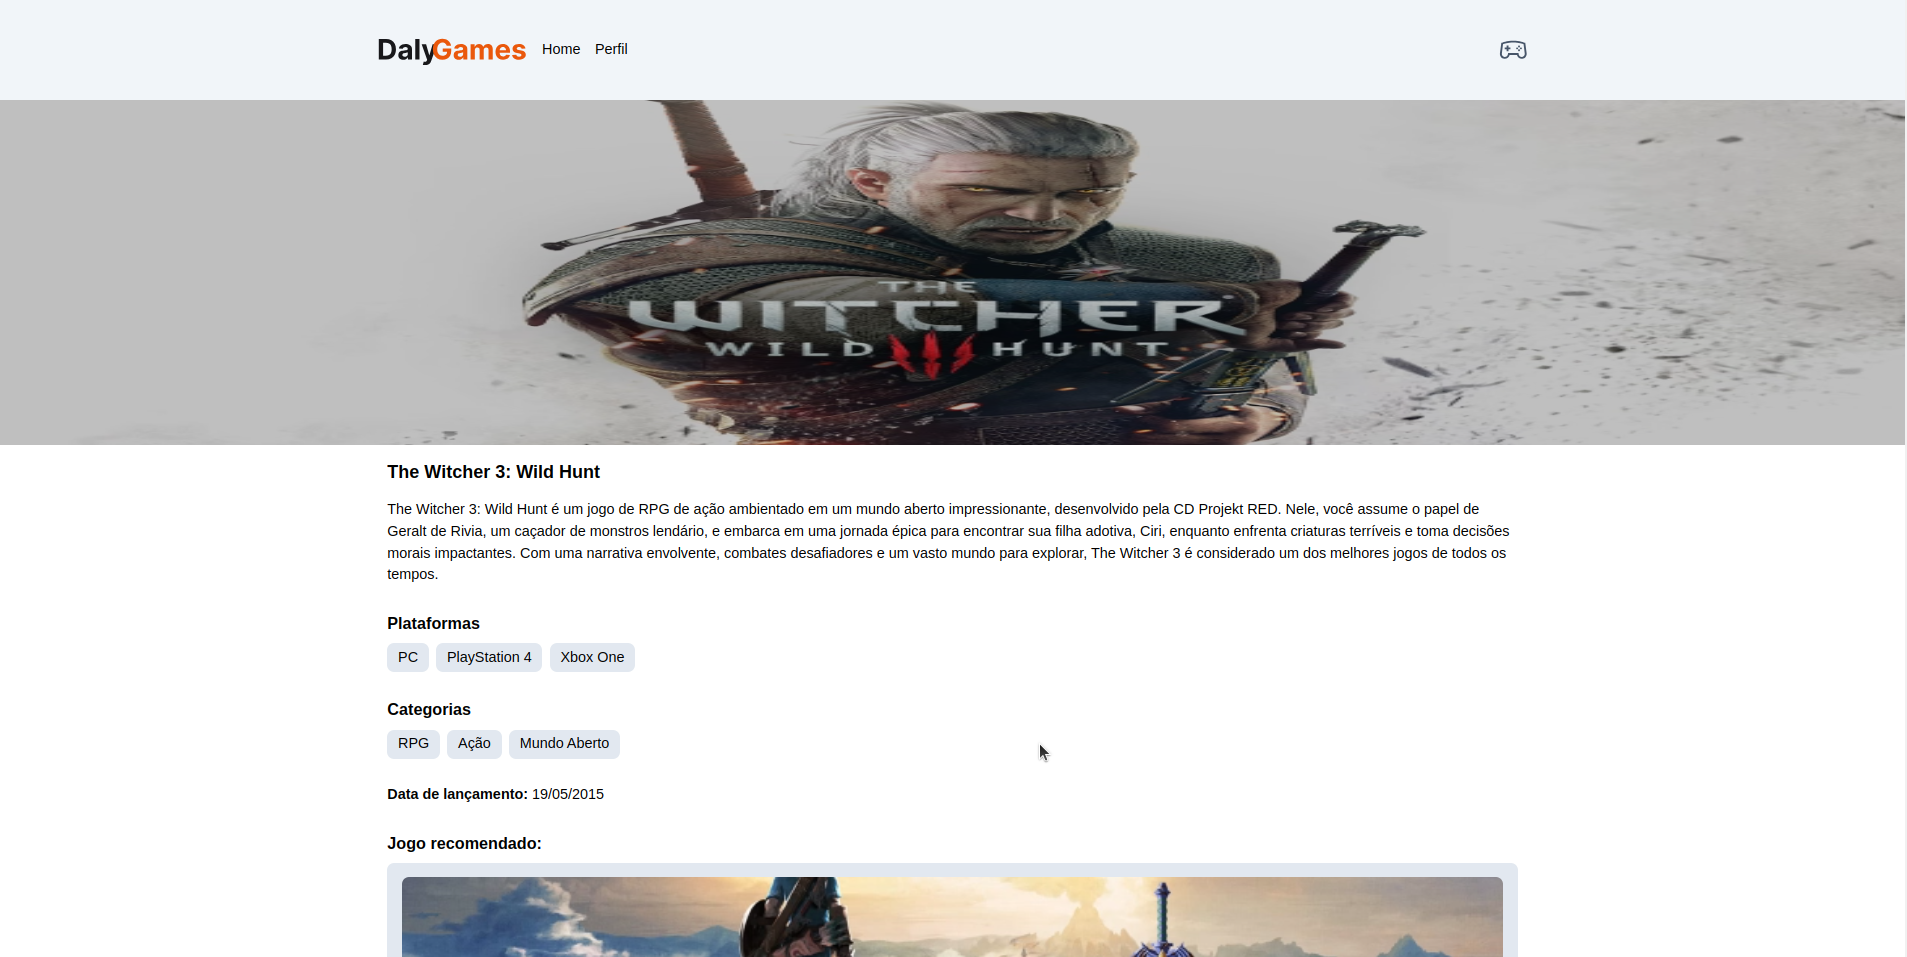
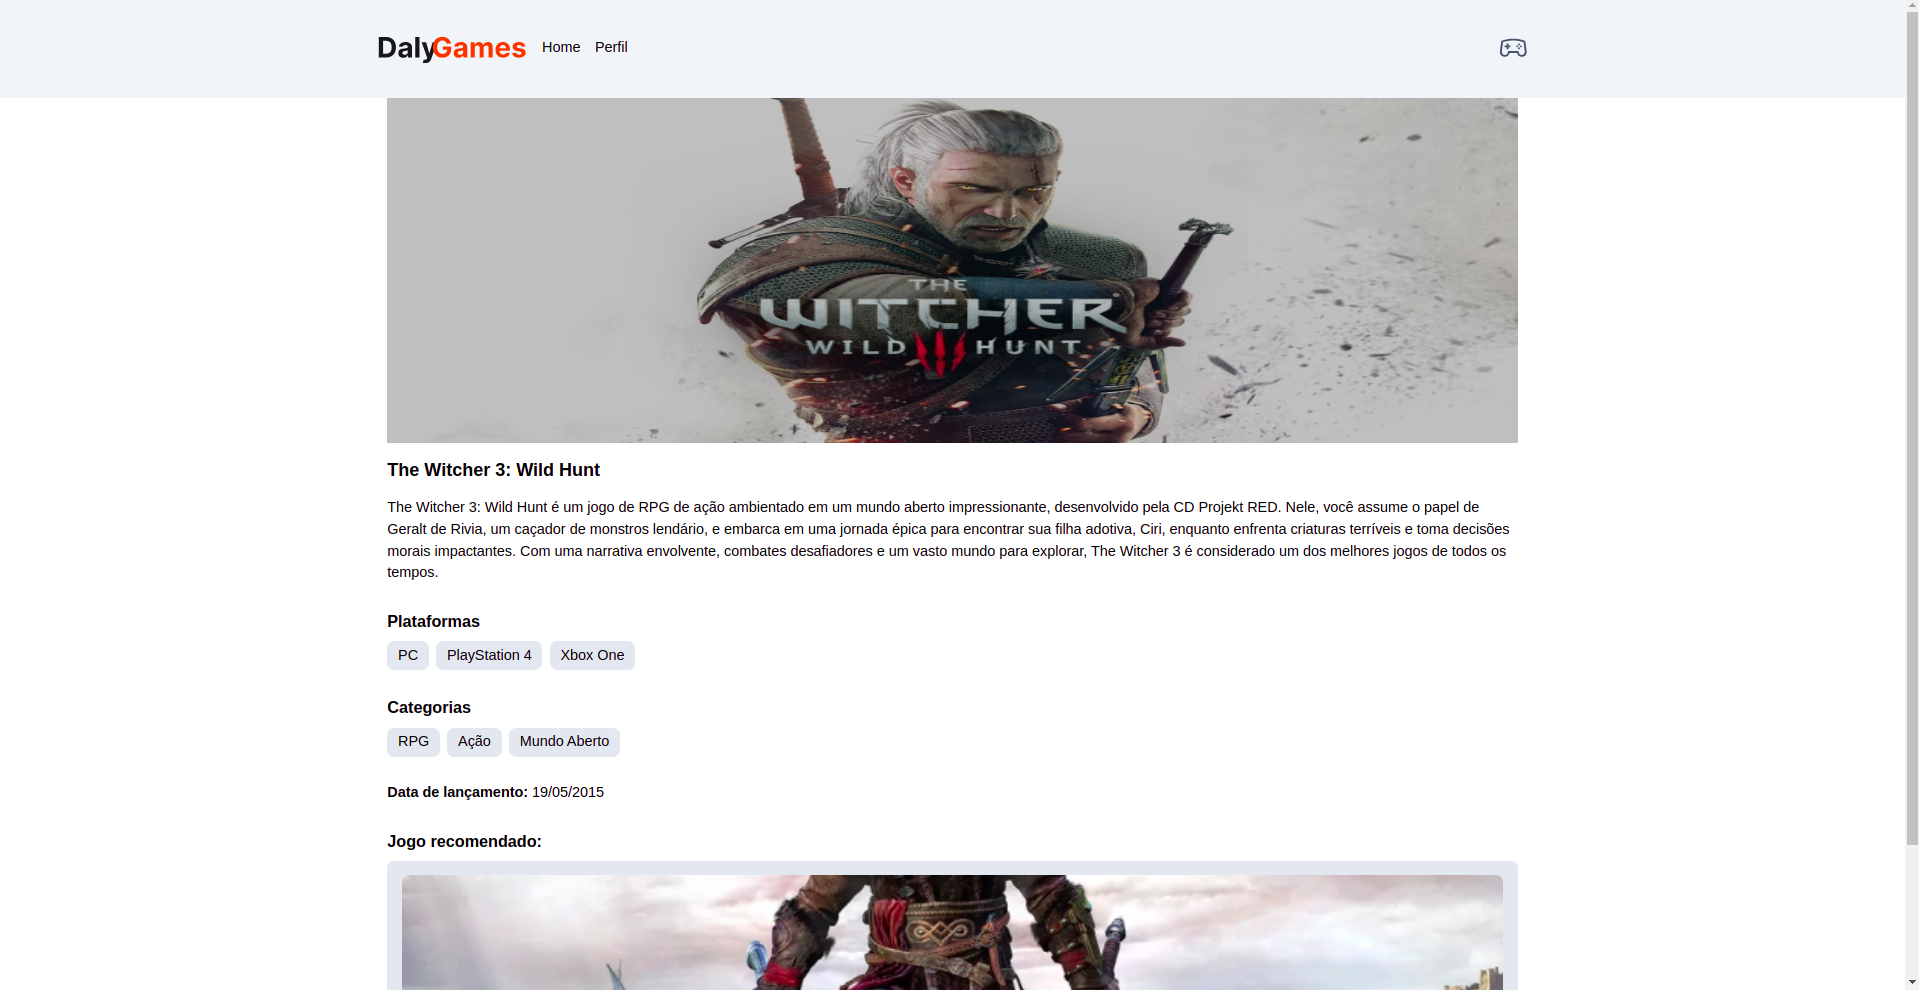
fix: code improvements

diff --git a/src/app/game/[id]/page.tsx b/src/app/game/[id]/page.tsx
@@ -16,6 +16,8 @@ export async function generateMetadata({
   params,
 }: PropsParams): Promise<Metadata> {
   try {
+    process.env["NODE_TLS_REJECT_UNAUTHORIZED"] = "0";
+
     const response: GameProps = await fetch(
       `${process.env.NEXT_PUBLIC_API_URL}/next-api/?api=game&id=${params.id}`
     )
@@ -52,6 +54,8 @@ export async function generateMetadata({
 }
 
 async function getData(id: string) {
+  process.env["NODE_TLS_REJECT_UNAUTHORIZED"] = "0";
+
   try {
     const res = await fetch(
       `${process.env.NEXT_PUBLIC_API_URL}/next-api/?api=game&id=${id}`,
@@ -64,6 +68,8 @@ async function getData(id: string) {
 }
 
 async function getGameSorted() {
+  process.env["NODE_TLS_REJECT_UNAUTHORIZED"] = "0";
+
   try {
     const res = await fetch(
       `${process.env.NEXT_PUBLIC_API_URL}/next-api/?api=game_day`,
@@ -89,19 +95,18 @@ export default async function Game({
 
   return (
     <main className="w-full text-black">
-      <div className="bg-black h-80 sm:h-96 w-full relative">
-        <Image
-          className="object-center w-full h-80 sm:h-96 opacity-75"
-          src={data.image_url}
-          alt={data.title}
-          priority={true}
-          fill={true}
-          quality={100}
-          sizes="(max-width: 768px) 100vw, (max-width: 1200px) 44vw"
-        />
-      </div>
-
       <Container>
+        <div className="bg-black h-80 sm:h-96 w-full relative">
+          <Image
+            className="w-full h-80 sm:h-96 opacity-75"
+            src={data.image_url}
+            alt={data.title}
+            priority={true}
+            fill={true}
+            quality={100}
+            sizes="(max-width: 768px) 100vw, (max-width: 1200px) 44vw"
+          />
+        </div>
         <h1 className="font-bold text-xl my-4">{data.title}</h1>
         <p>{data.description}</p>
 

diff --git a/src/app/page.tsx b/src/app/page.tsx
@@ -8,6 +8,8 @@ import { GameCard } from "@/components/GameCard";
 
 async function getDalyGame() {
   try {
+    process.env["NODE_TLS_REJECT_UNAUTHORIZED"] = "0";
+
     const res = await fetch(
       `${process.env.NEXT_PUBLIC_API_URL}/next-api/?api=game_day`,
       { next: { revalidate: 320 } }
@@ -20,6 +22,8 @@ async function getDalyGame() {
 
 async function getGamesData() {
   try {
+    process.env["NODE_TLS_REJECT_UNAUTHORIZED"] = "0";
+
     const res = await fetch(
       `${process.env.NEXT_PUBLIC_API_URL}/next-api/?api=games`,
       {

diff --git a/src/app/game/search/[title]/page.tsx b/src/app/game/search/[title]/page.tsx
@@ -5,6 +5,8 @@ import { GameProps } from "@/utils/types/game";
 
 async function getData(title: string) {
   try {
+    process.env["NODE_TLS_REJECT_UNAUTHORIZED"] = "0";
+
     const decodeTitle = decodeURI(title);
     const res = await fetch(
       `${process.env.NEXT_PUBLIC_API_URL}/next-api/?api=game&title=${decodeTitle}`

diff --git a/README.md b/README.md
@@ -27,7 +27,7 @@ Para rodar este projeto é necessário ter instalado na sua máquina as seguinte
 
 - Criar o arquivo `.env.local` na raiz do projeto com os seguintes códigos: <br>`export NEXT_PUBLIC_API_URL="https://sujeitoprogramador.com"`
   `export NEXT_PUBLIC_PROJECT_URL="http://localhost:3000"`
-- Se estiver utilizando <b>Sistema Operacional Linux Ubuntu</b> tente rodar o projeto normalmente, se houver erro de chamada <b>API</b> deve adicionar a seguinte linha de código: <b>process.env["NODE_TLS_REJECT_UNAUTHORIZED"] = "0";</b> por conta do <a href="https://ajuda.serasa.certificadodigital.com.br/hc/pt-br/articles/4938472757011-Diferen%C3%A7as-entre-os-tipos-de-certificado-SSL#:~:text=Os%20certificados%20SSL%20Self%20Signed,N%C3%A3o%20possuem%20confian%C3%A7a%20p%C3%BAblica.">Certificado de Autoassinado</a>.
+- Se estiver utilizando <b>Sistema Operacional Linux Ubuntu</b> deve adicionar a seguinte linha de código: <b>process.env["NODE_TLS_REJECT_UNAUTHORIZED"] = "0";</b> por conta do <a href="https://ajuda.serasa.certificadodigital.com.br/hc/pt-br/articles/4938472757011-Diferen%C3%A7as-entre-os-tipos-de-certificado-SSL#:~:text=Os%20certificados%20SSL%20Self%20Signed,N%C3%A3o%20possuem%20confian%C3%A7a%20p%C3%BAblica.">Certificado de Autoassinado</a>.
   <img src="public/util.png">
 
 ## Para rodar o projeto 📌
